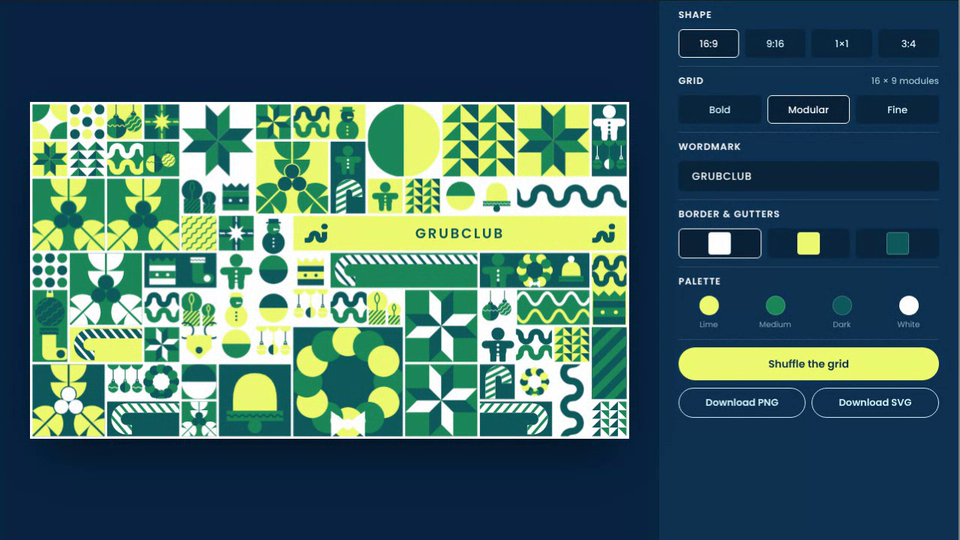
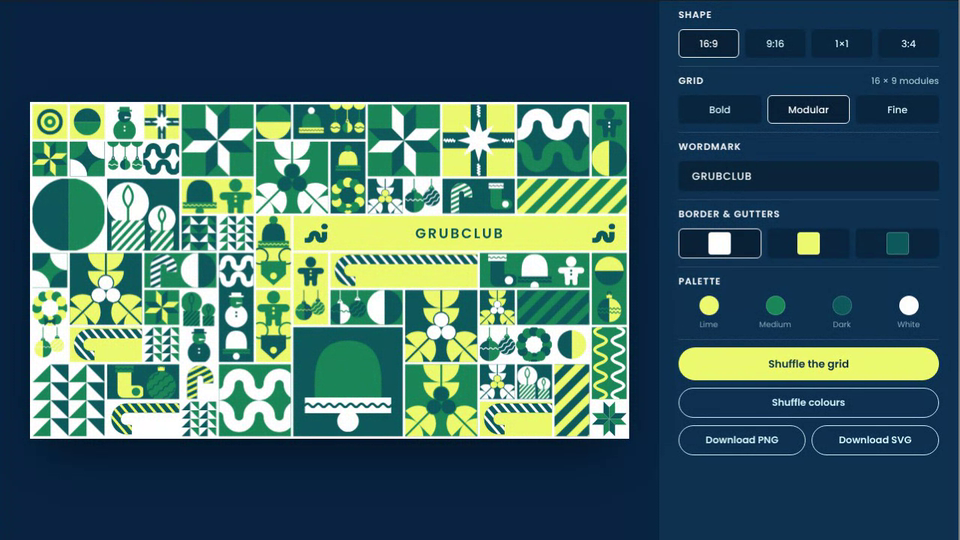
Grubclub Holiday Grid: remove elf block, two buttons, Shuffle colours (#218)
* Add Grubclub Holiday Grid app with homepage tile and clip

Claude-Session: https://claude.ai/code/session_01AHeBdyRCcuLFjvrTGpsW3f

* Grubclub Holiday Grid: use the Grubclub orange #F2994A

Claude-Session: https://claude.ai/code/session_01AHeBdyRCcuLFjvrTGpsW3f

* Grubclub Holiday Grid: illustrations closer to the references (two audit rounds)

Claude-Session: https://claude.ai/code/session_01AHeBdyRCcuLFjvrTGpsW3f

* Grubclub Holiday Grid: cup matched to reference, cone fixed, five new bug icons (cricket, grasshopper, mealworm, beetle, ant)

Claude-Session: https://claude.ai/code/session_01AHeBdyRCcuLFjvrTGpsW3f

* Grubclub Holiday Grid: exact pinwheel, triangle tree and holly blocks on square tiles, with contrast-checked colour sets

Claude-Session: https://claude.ai/code/session_01AHeBdyRCcuLFjvrTGpsW3f

* Grubclub Holiday Grid: re-record clip

Claude-Session: https://claude.ai/code/session_01AHeBdyRCcuLFjvrTGpsW3f

* Grubclub Holiday Grid: no orange, mealworm either side of the wordmark, mealworm line icon removed, tighter edge-to-edge illustrations

Claude-Session: https://claude.ai/code/session_01AHeBdyRCcuLFjvrTGpsW3f

* Grubclub Holiday Grid: line-art circles replaced with plain split circles in varied colour pairs

Claude-Session: https://claude.ai/code/session_01AHeBdyRCcuLFjvrTGpsW3f

* Grubclub Holiday Grid: use the Grubclub logo worm either side of the wordmark

Claude-Session: https://claude.ai/code/session_01AHeBdyRCcuLFjvrTGpsW3f
[…]

Changed region(s): [[0.0312, 0.1778, 0.6562, 0.8296], [0.7188, 0.7111, 0.9688, 0.8593], [0.8438, 0.8, 0.9688, 0.8593]]

diff --git a/grubclub-holiday/index.html b/grubclub-holiday/index.html
@@ -89,6 +89,7 @@ main{flex:1;min-height:0;display:grid;grid-template-columns:minmax(0,1fr) 400px}
       </div></div>
     <div class="sec" style="border:0">
       <button id="shuf">Shuffle the grid</button>
+      <button id="shufc" class="dl" style="width:100%;margin-top:10px;flex:none">Shuffle colours</button>
       <div class="row" style="margin-top:10px"><button class="dl" id="dPng">Download PNG</button><button class="dl" id="dSvg">Download SVG</button></div>
     </div>
   </aside>
@@ -105,7 +106,7 @@ const GRID = {
   '1:1':  [[8, 8], [12, 12], [16, 16]],
   '3:4':  [[6, 8], [9, 12], [12, 16]]
 };
-const S = { ratio: '16:9', dens: 1, gut: 'white', word: 'GRUBCLUB', seed: 7 };
+const S = { ratio: '16:9', dens: 1, gut: 'white', word: 'GRUBCLUB', seed: 7, cseed: 1 };
 
 /* the Grubclub logo worm (same PNG the other Grubclub apps use as the logo mark), 131x112 */
[1 lines of base64/hex data omitted]
@@ -160,13 +161,11 @@ const ICON = {
       fl(29, 10, 30, 13, k.b, 3) + `<path d="M29 40 V58" stroke="${k.b}" stroke-width="3" stroke-linecap="round"/>` +
       fl(76, 41, 20, 9, k.b, 2.8) + `<path d="M76 61 V72" stroke="${k.b}" stroke-width="2.8" stroke-linecap="round"/>`; },
   stocking: (k) => `<path d="M30 22 H66 V60 H84 A16 16 0 0 1 84 92 H46 A16 16 0 0 1 30 76Z" fill="${k.a}"/><rect x="24" y="8" width="48" height="18" fill="${k.b}"/>` + zig(24, 72, 17, 3.4, 4, k.bg, 2.4) + circ(78, 76, 11, k.b),
-  /* elf: zigzag crown, a light band with two round eyes between two dark bands */
-  elf: (k) => { const ey = bestOn(k.b, [k.bg, k.a, k.x]); return poly([[8, 34], [8, 8], [22, 22], [36, 8], [50, 22], [64, 8], [78, 22], [92, 8], [92, 34]], k.b) + `<rect x="8" y="34" width="84" height="62" fill="${k.a}"/><rect x="8" y="52" width="84" height="24" fill="${k.b}"/>` + circ(33, 64, 5.2, ey) + circ(67, 64, 5.2, ey); },
   /* snowman: two big circles, hat, a single accent nose */
   snowman: (k) => circ(50, 78, 36, k.a) + circ(50, 31, 21, k.b) + `<rect x="34" y="2" width="32" height="12" rx="1" fill="${k.a}"/><rect x="26" y="12" width="48" height="5" rx="2" fill="${k.a}"/>` +
-    poly([[50, 32], [72, 36], [50, 40]], bestOn(k.b, [k.bg, k.a, k.x])) + circ(50, 66, 3.4, bestOn(k.a, [k.bg, k.b, k.x])) + circ(50, 78, 3.4, bestOn(k.a, [k.bg, k.b, k.x])) + circ(50, 90, 3.4, bestOn(k.a, [k.bg, k.b, k.x])),
+    poly([[50, 32], [72, 36], [50, 40]], bestOn(k.b, [k.bg, k.a, k.x])) + circ(50, 66, 3.4, bestOn(k.a, [k.bg, k.b, k.x])) + circ(50, 78, 3.4, bestOn(k.a, [k.bg, k.b, k.x])),
   ginger: (k) => circ(50, 22, 17, k.a) + `<rect x="8" y="40" width="84" height="20" rx="10" fill="${k.a}"/><rect x="28" y="40" width="44" height="40" rx="14" fill="${k.a}"/><rect x="30" y="64" width="16" height="34" rx="8" fill="${k.a}"/><rect x="54" y="64" width="16" height="34" rx="8" fill="${k.a}"/>` +
-    [51, 63, 75].map((y) => circ(50, y, 3.6, bestOn(k.a, [k.bg, k.b, k.x]))).join(''),
+    [51, 63].map((y) => circ(50, y, 3.6, bestOn(k.a, [k.bg, k.b, k.x]))).join(''),
   treeC: (k) => circ(50, 24, 17, k.a) + circ(50, 50, 24, k.b) + circ(50, 80, 28, k.a) + circ(50, 6, 5.5, k.x) + circ(42, 52, 3.6, k.bg) + circ(60, 46, 3.6, k.bg) + circ(38, 82, 4, k.bg) + circ(58, 84, 4, k.bg) + circ(70, 76, 4, k.x),
   wreath: (k) => Array.from({ length: 12 }, (_, i) => { const an = i / 12 * Math.PI * 2; return circ(50 + Math.cos(an) * 34, 50 + Math.sin(an) * 34, 13, i % 2 ? k.b : k.a); }).join('') + circ(50, 50, 20, k.bg) +
     circ(40, 82, 4.5, k.x) + circ(50, 85, 4.5, k.x) + circ(60, 82, 4.5, k.x) + poly([[50, 84], [36, 96], [36, 74]], k.x) + poly([[50, 84], [64, 96], [64, 74]], k.x),
@@ -203,7 +202,7 @@ const ICON = {
   wavyDiag: (k) => rot(-45, 50, 50, [-20, 0, 20, 40, 60, 80, 100, 120].map((y) => zig(-30, 130, y, 5, 8, k.a, 3.4)).join(''))
 };
 /* plain split circles (two half circles in varying colour pairs) and the three exact geometric blocks, weighted up */
-const ICONS_FULL = ['ornament', 'reindeer', 'bell', 'hat', 'gift', 'cane', 'candle', 'stocking', 'elf', 'snowman', 'ginger', 'wreath', 'doubleBauble', 'scallop', 'doubleBauble', 'gift', 'squiggle', 'squiggle', 'pinwheel', 'pinwheel', 'pinwheel', 'holly', 'holly', 'holly', 'treeTri', 'treeTri', 'treeTri', 'halfdisc', 'halfdisc', 'halfdisc', 'halfdisc'];
+const ICONS_FULL = ['ornament', 'reindeer', 'bell', 'hat', 'gift', 'cane', 'candle', 'stocking', 'snowman', 'ginger', 'wreath', 'doubleBauble', 'scallop', 'doubleBauble', 'gift', 'squiggle', 'squiggle', 'pinwheel', 'pinwheel', 'pinwheel', 'holly', 'holly', 'holly', 'treeTri', 'treeTri', 'treeTri', 'halfdisc', 'halfdisc', 'halfdisc', 'halfdisc'];
 const FILLERS = ['squiggle', 'halfdisc', 'rings', 'quarters', 'dots', 'tris', 'stripesDiag', 'wavyDiag'];
 const BLEED = { squiggle: 1, candle: 1, tris: 1, quarters: 1, gift: 1, stripesDiag: 1, wavyDiag: 1, scallop: 1 };
 
@@ -300,7 +299,7 @@ let usedRecent = [];
 function build(anim) {
   const [W, H] = SIZE[S.ratio];
   const [cols, rows] = GRID[S.ratio][S.dens];
-  const r = rngOf(S.seed * 9301 + cols * 17 + rows);
+  const r = rngOf(S.seed * 9301 + cols * 17 + rows), rc = rngOf(S.cseed * 7919 + 13); /* r drives layout and icon choice, rc drives colours only */
   const gap = Math.round(Math.min(W / cols, H / rows) * .07 * (S.dens === 2 ? .8 : 1));
   const gutC = { white: C.W, lime: C.L, dark: C.D }[S.gut];
   const cw = (W - gap * (cols + 1)) / cols, ch = (H - gap * (rows + 1)) / rows;
@@ -316,7 +315,7 @@ function build(anim) {
     const mn = Math.min(w, h);
     let body = '', k;
     if (t.kind === 'word') {
-      k = scheme(r, 'L'); k = { ...k, bg: C.L, a: C.D, b: C.M, x: C.M };
+      k = scheme(rc, 'L'); k = { ...k, bg: C.L, a: C.D, b: C.M, x: C.M };
       const txt = (S.word || 'GRUBCLUB').toUpperCase();
       const fs = Math.min(h * .4, (w - h * 2.9) / (txt.length * .74));
       body = `<text x="${f(x + w / 2)}" y="${f(y + h / 2)}" text-anchor="middle" dominant-baseline="central" font-family="Poppins,'Helvetica Neue',Arial,sans-serif" font-weight="600" font-size="${f(fs)}" letter-spacing="${f(fs * .14)}" fill="${C.D}">${txt.replace(/&/g, '&amp;').replace(/</g, '&lt;')}</text>`;
@@ -326,19 +325,19 @@ function build(anim) {
         `<image href="${WORM_PNG}" filter="url(#wmf)" x="${f(x + h * .3)}" y="${f(wy)}" width="${f(ww2)}" height="${f(wh)}"/>` +
         `<image href="${WORM_PNG}" filter="url(#wmf)" x="${f(x + w - h * .3 - ww2)}" y="${f(wy)}" width="${f(ww2)}" height="${f(wh)}"/>`;
     } else if (t.kind === 'hero') {
-      k = scheme(r, pick(r, ['W', 'M', 'D', 'L']));
+      k = scheme(rc, pick(rc, ['W', 'M', 'D', 'L']));
       const nm = pick(r, ['ornament', 'wreath', 'snowman', 'reindeer', 'gift', 'bell', 'hat', 'pinwheel', 'pinwheel', 'pinwheel', 'holly', 'holly', 'holly', 'treeTri', 'treeTri', 'treeTri']);
-      usedRecent.push(nm); if (GEO[nm]) k = GEO[nm](r);
+      usedRecent.push(nm); if (GEO[nm]) k = GEO[nm](rc);
       body = iconSvg(nm, k, x, y, w, h, GEO[nm] ? 0 : mn * .05);
     } else if (t.kind === 'cane') {
-      k = scheme(r);
+      k = scheme(rc);
       body = `<g transform="translate(${f(x)} ${f(y)})">${BANDS.caneSide(w, h, k, r)}</g>`;
     } else if (t.kind === 'band' && (t.w !== t.h)) {
-      k = scheme(r);
+      k = scheme(rc);
       const name = pick(r, t.w > t.h ? WIDE : ['squiggle', 'zigzag', 'zigzag', 'stripes']);
       body = `<g transform="translate(${f(x)} ${f(y)})">${BANDS[name](w, h, k, r)}</g>`;
     } else if (t.kind === 'multi') {
-      k = scheme(r);
+      k = scheme(rc);
       const m = Math.round(Math.max(t.w, t.h) / Math.min(t.w, t.h));
       for (let j = 0; j < m; j++) {
         const kk = j ? { ...k, a: k.b === k.bg ? k.a : k.b, b: k.a } : k;
@@ -346,11 +345,11 @@ function build(anim) {
         body += t.w > t.h ? iconSvg(nm, kk, x + j * w / m, y, w / m, h, mn * .05) : iconSvg(nm, kk, x, y + j * h / m, w, h / m, mn * .05);
       }
     } else if (t.kind === 'filler') {
-      k = scheme(r);
+      k = scheme(rc);
       body = iconSvg(pick(r, FILLERS), k, x, y, w, h, mn * .08);
     } else {
-      k = scheme(r);
-      const nm = t.w >= 2 && t.w === t.h && r() < .6 ? pick(r, ['pinwheel', 'holly', 'treeTri']) : nextIcon(true); if (GEO[nm]) k = GEO[nm](r);
+      k = scheme(rc);
+      const nm = t.w >= 2 && t.w === t.h && r() < .6 ? pick(r, ['pinwheel', 'holly', 'treeTri']) : nextIcon(true); if (GEO[nm]) k = GEO[nm](rc);
       body = iconSvg(nm, k, x, y, w, h, GEO[nm] ? 0 : mn * .05);
     }
     const dly = f(((t.x / cols + t.y / rows) * .9 + r() * .15));
@@ -384,6 +383,8 @@ const group = (id, key, parse = (v) => v) => document.getElementById(id).addEven
 group('ratios', 'ratio'); group('dens', 'dens', Number); group('gut', 'gut');
 document.getElementById('txt').addEventListener('input', (e) => { S.word = e.target.value; draw(false); });
 document.getElementById('shuf').addEventListener('click', () => { S.seed = Math.floor(Math.random() * 1e6); draw(true); });
+/* same layout and illustrations, new colours */
+document.getElementById('shufc').addEventListener('click', () => { S.cseed = Math.floor(Math.random() * 1e6); draw(false); });
 
 const saveBlob = (blob, name) => { const a = document.createElement('a'); a.href = URL.createObjectURL(blob); a.download = name; document.body.appendChild(a); a.click(); a.remove(); setTimeout(() => URL.revokeObjectURL(a.href), 2000); };
 const fname = () => `grubclub-holiday-${S.ratio.replace(':', 'x')}`;
